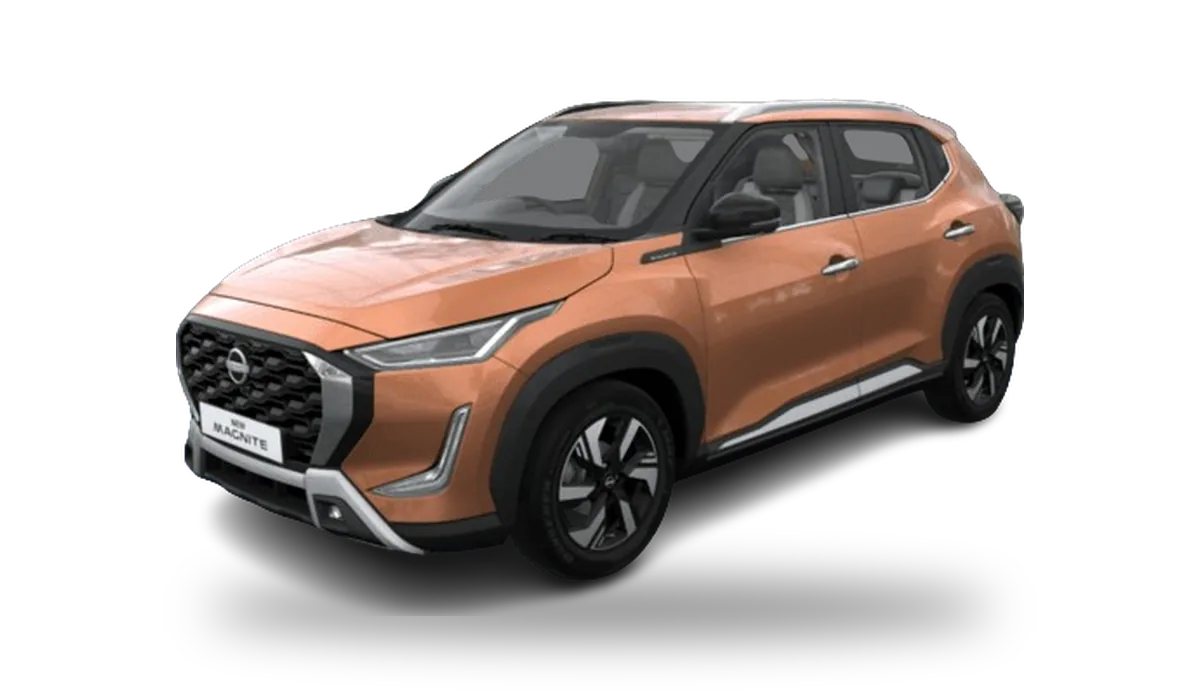
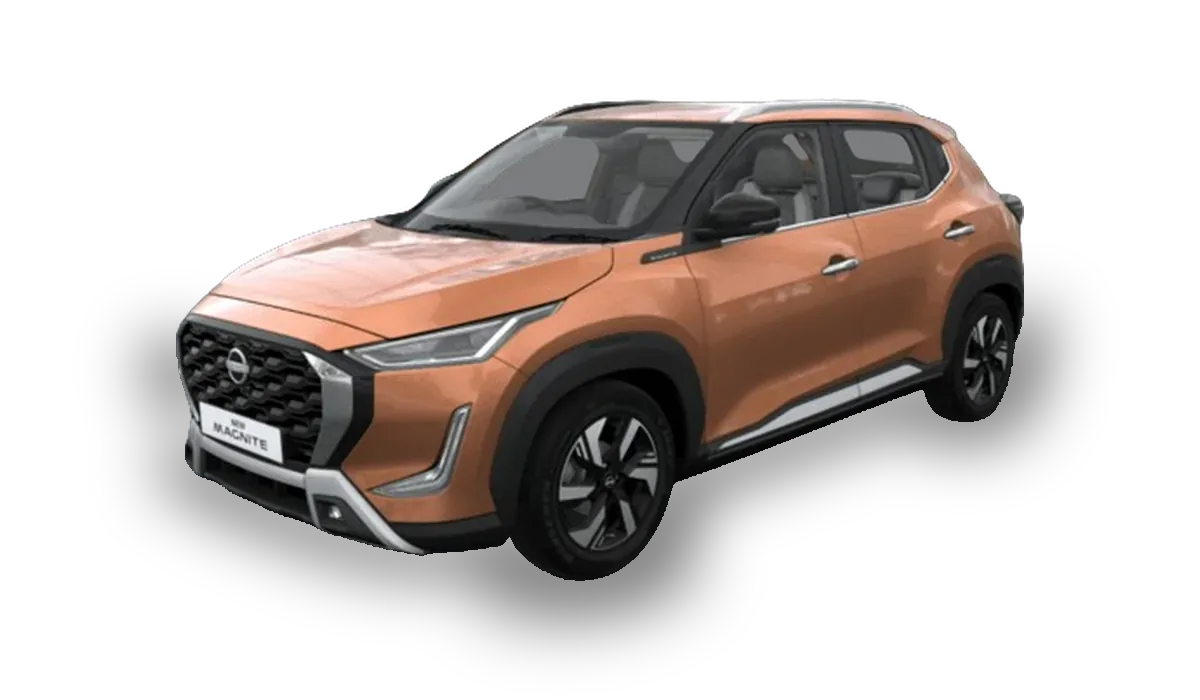
Ground the Gravite, Magnite and Virtus photos: shadow follows the tyres for high-angle renders
Claude-Session: https://claude.ai/code/session_01Qn424rNaN4g8h68r3eYR9L

Changed region(s): [[0.0925, 0.42, 0.8942, 0.96]]

diff --git a/scraper/reshadow.py b/scraper/reshadow.py
@@ -1,0 +1,51 @@
+"""Ground shadow that follows the tyres, for renders shot from a high camera angle.
+
+carimg.py puts a flat oval shadow under every car. For photos taken from above (Nissan's
+configurator renders, for example) the far wheels sit higher in the picture than the oval,
+so the car looks like it is floating. This removes that oval and draws a contact shadow along
+the bottom outline of the car instead, plus a soft pad slanted between the front and rear wheels.
+
+  python3 scraper/reshadow.py site/img/cars/nissan-gravite/*.webp   (rewrites in place)
+"""
+import sys, numpy as np
+from PIL import Image, ImageDraw, ImageFilter
+
+def strip(im):
+    a = np.array(im.getchannel('A')).astype(np.int16)
+    solid = a >= 235; h, w = a.shape
+    cols = solid.any(0)
+    low = np.where(cols, h - 1 - np.argmax(solid[::-1, :], 0), -1)
+    rows = np.arange(h)[:, None]
+    semi = (a > 0) & (a < 235)
+    a[semi & ((~cols)[None, :] | (rows > low[None, :]))] = 0
+    out = im.copy(); out.putalpha(Image.fromarray(a.astype(np.uint8)))
+    return out, low, cols
+
+def contact_shadow(im):
+    im = im.convert('RGBA')
+    car, low, cols = strip(im)
+    W, H = im.size
+    xs = np.where(cols)[0]; x0, x1 = xs[0], xs[-1]; cw = x1 - x0
+    A = np.array(car.getchannel('A')) >= 235
+    top = np.argmax(A.any(1)); ch = low.max() - top
+    mid = (x0 + x1) // 2
+    li = x0 + int(np.argmax(low[x0:mid])); ri = mid + int(np.argmax(low[mid:x1 + 1]))
+    ly, ry = low[li], low[ri]
+    sh = Image.new('L', (W, H), 0); d = ImageDraw.Draw(sh)
+    t = float(max(8, ch * 0.07))
+    for x in range(x0, x1 + 1, 4):
+        y = low[x]
+        if y >= 0: d.ellipse([x - t, y - t * 0.5, x + t, y + t * 0.6], fill=150)
+    cx, cy = (li + ri) / 2, (ly + ry) / 2
+    ang = np.degrees(np.arctan2(ry - ly, ri - li))
+    pad = Image.new('L', (W * 2, H * 2), 0)
+    L = np.hypot(ri - li, ry - ly) * 0.62 + cw * 0.12
+    ImageDraw.Draw(pad).ellipse([W - L, H - t * 1.3, W + L, H + t * 1.3], fill=90)
+    pad = pad.rotate(-ang, center=(W, H)).crop((int(W - cx), int(H - cy), int(W - cx) + W, int(H - cy) + H))
+    sh = Image.fromarray(np.maximum(np.array(sh), np.array(pad))).filter(ImageFilter.GaussianBlur(max(6, t * 0.9)))
+    layer = Image.new('RGBA', (W, H), (0, 0, 0, 0)); layer.putalpha(sh)
+    return Image.alpha_composite(layer, car)
+
+if __name__ == '__main__':
+    for f in sys.argv[1:]:
+        contact_shadow(Image.open(f)).save(f, 'WEBP', quality=82, method=6); print('reshadowed', f)

diff --git a/scraper/carimg.py b/scraper/carimg.py
@@ -236,7 +236,7 @@ def build(only=None, force=False):
     index = json.load(open(index_path)) if os.path.exists(index_path) else {'models': {}}
     src_files = [f for f in glob.glob(os.path.join(ROOT, 'data/maker-images/*.json')) if not os.path.basename(f).startswith('_')]
     overrides = {}
-    ov = os.path.join(ROOT, 'data/maker-images/_overrides.json')  # optional manual fixes: {"Brand|Model": {"hero": url, "flip": true}}
+    ov = os.path.join(ROOT, 'data/maker-images/_overrides.json')  # optional manual fixes: {"Brand|Model": {"hero": url, "flip": true, "contactShadow": true}}
     if os.path.exists(ov):
         overrides = json.load(open(ov)).get('models', {})
     done = fail = 0
@@ -265,6 +265,9 @@ def build(only=None, force=False):
                         how = standardize(url, path, flip=o.get('flip', False), erase=o.get('erase') if kind == 'hero' else None, ai=o.get('ai', False))
                         if not how:
                             print('  could not cut out', key, kind, name or '', file=sys.stderr); fail += 1; continue
+                        if o.get('contactShadow'):  # high camera angle: shadow follows the tyres (see reshadow.py)
+                            from reshadow import contact_shadow
+                            contact_shadow(Image.open(path)).save(path, 'WEBP', quality=82, method=6)
                         rec['how'] = how; done += 1
                     except Exception as e:
                         print('  failed', key, kind, name or '', str(e)[:80], file=sys.stderr); fail += 1
